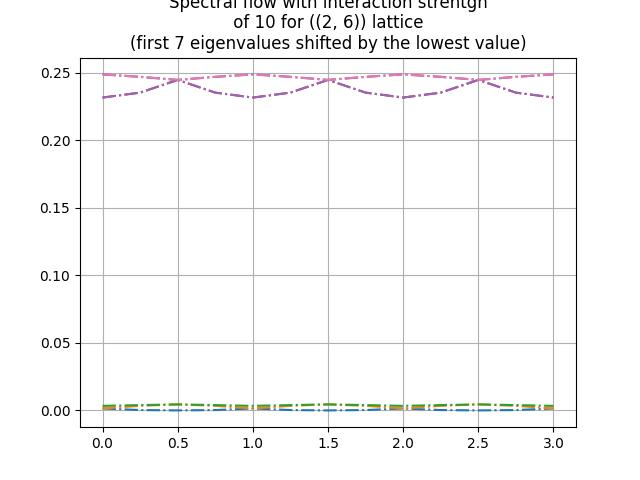
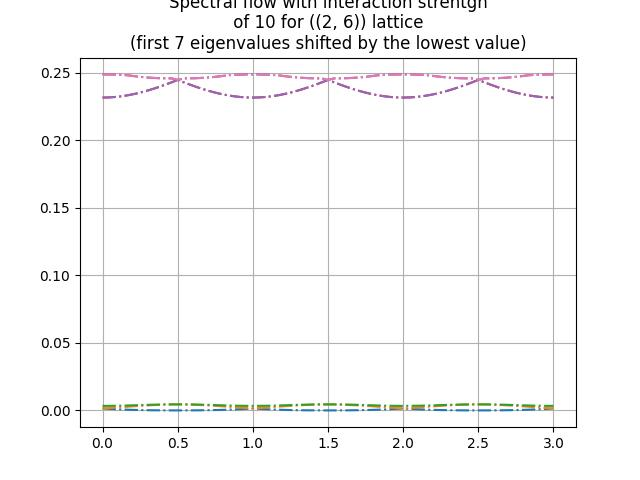
higher resultion for strong interaction

diff --git a/spetral_flow.py b/spetral_flow.py
@@ -7,7 +7,7 @@ import numpy as np
 Nx = 2
 Ny = 6
 
-for interaction_strength in [1e-1,1e-2,1e-3,1e-4]:
+for interaction_strength in [1,10,100,1000]:
     print(f"interaction strength = {interaction_strength}")
     phi_list = np.linspace(start=0,stop=3, num=72 + 1)
     eigenvalues_list = []
